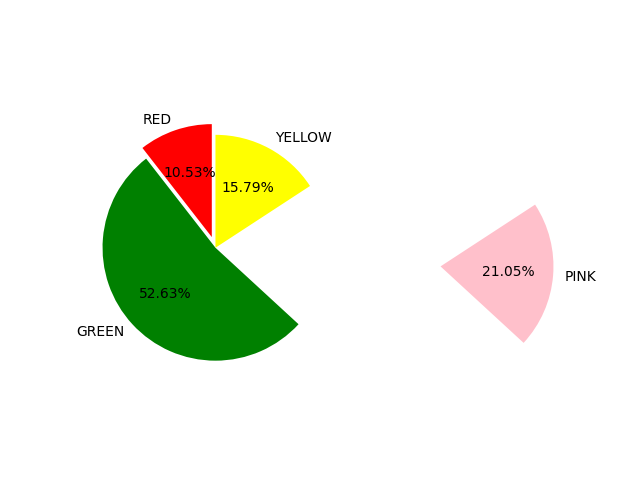
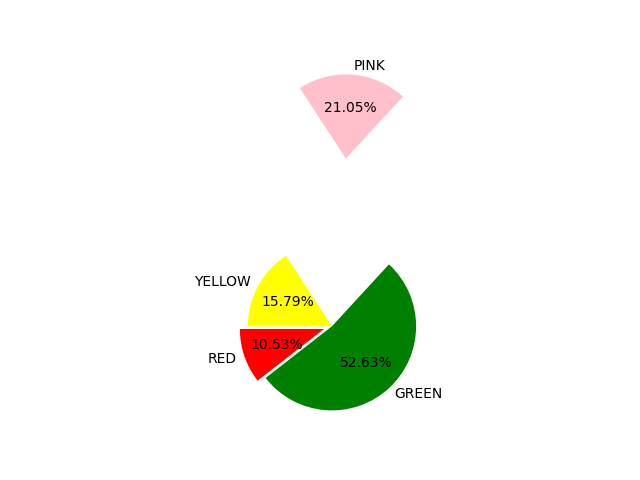
HEHEHEHEHEHE

Changed region(s): [[0.125, 0.125, 0.6875, 0.875], [0.6875, 0.4062, 0.9375, 0.7188]]

diff --git a/main.py b/main.py
@@ -6,7 +6,7 @@ colorlist = ['red', 'green', 'pink', 'yellow' ]
 explodelist = [0.1, 0.0, 2.0, 0.0]
 # make the pie chart
 plot.pie(numlist, labels=namelist, autopct='%.2f%%', colors=colorlist,
-    	explode = explodelist, startangle = 90)
+    	explode = explodelist, startangle = 180)
 plot.axis('equal')
 plot.savefig('piechart.png')
 
